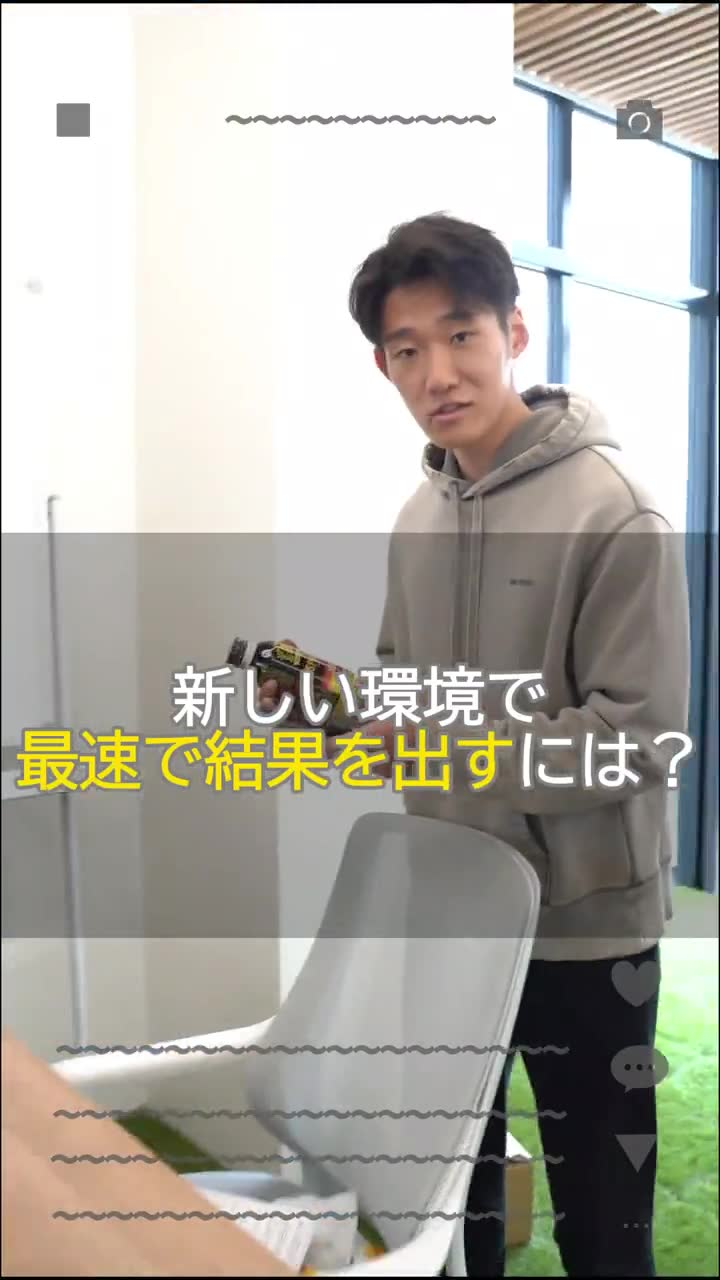
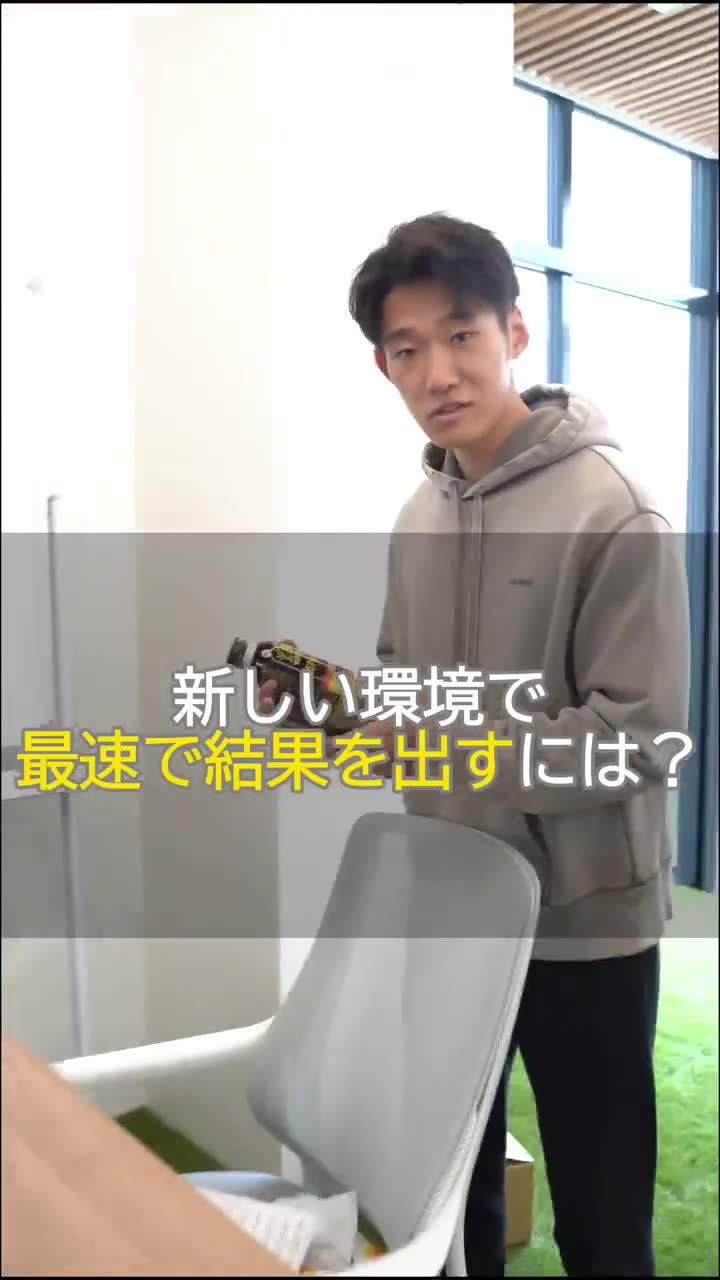
Add files via upload

diff --git a/index.html b/index.html
@@ -47,10 +47,18 @@ section:nth-of-type(even){background:var(--paper)}
 .hero-name .bar{width:44px;height:2px;background:var(--red)}
 .hero-name p{font-size:14px;letter-spacing:.1em}
 .hero-name p small{display:block;font-family:var(--num);font-size:10px;letter-spacing:.3em;color:rgba(255,255,255,.5);margin-top:2px}
-.hero-photo{position:relative}
-.hero-photo img{width:100%;aspect-ratio:1/1;object-fit:cover;filter:grayscale(12%)}
-.hero-photo::before{content:"";position:absolute;top:16px;left:16px;width:100%;height:100%;border:1px solid rgba(255,255,255,.25);pointer-events:none}
-.hero-photo .tag{position:absolute;left:-10px;bottom:26px;background:var(--red);color:var(--white);font-family:var(--num);font-size:12px;letter-spacing:.2em;padding:8px 16px;font-weight:500}
+.hero-board{position:relative;border:1px solid rgba(255,255,255,.28);padding:46px 38px 42px;overflow:hidden}
+.hero-board::before{content:"";position:absolute;top:16px;left:16px;width:100%;height:100%;border:1px solid rgba(255,255,255,.12);pointer-events:none}
+.hero-board::after{content:"";position:absolute;top:-30px;right:-70px;width:190px;height:34px;background:var(--red);transform:rotate(35deg);opacity:.9}
+.hb-eyebrow{font-family:var(--num);font-size:11px;letter-spacing:.3em;color:rgba(255,255,255,.55);font-weight:500;margin-bottom:10px}
+.hb-time{font-family:var(--num);font-size:clamp(56px,8vw,86px);font-weight:600;letter-spacing:.02em;line-height:1;color:var(--white)}
+.hb-div{width:100%;height:1px;background:rgba(255,255,255,.18);margin:30px 0 24px}
+.hb-prog{display:flex;align-items:center;gap:18px}
+.hb-prog .l{display:block;font-family:var(--num);font-size:9px;letter-spacing:.22em;color:rgba(255,255,255,.45)}
+.hb-prog .v{display:block;font-family:var(--num);font-size:22px;font-weight:500;color:var(--white);margin-top:2px}
+.hb-prog .arrow{font-family:var(--num);font-size:20px;color:var(--red);font-weight:600}
+.hb-note{margin-top:24px;font-size:12px;color:rgba(255,255,255,.55);letter-spacing:.06em}
+.hero-board .tag{position:absolute;left:0;bottom:0;background:var(--red);color:var(--white);font-family:var(--num);font-size:11px;letter-spacing:.2em;padding:7px 16px;font-weight:500}
 .hero-ticker{border-top:1px solid rgba(255,255,255,.15);padding:16px 0;overflow:hidden}
 .hero-ticker .inner{display:flex;gap:38px;flex-wrap:wrap;min-height:0;padding-top:0;padding-bottom:0}
 .hero-ticker span{font-family:var(--num);font-size:12px;letter-spacing:.22em;color:rgba(255,255,255,.55)}
@@ -88,7 +96,7 @@ section:nth-of-type(even){background:var(--paper)}
 /* Instagramカード */
 .ig-card{background:var(--white);border:1px solid var(--line);padding:26px 24px;box-shadow:0 2px 20px rgba(17,17,17,.05)}
 .ig-head{display:flex;align-items:center;gap:16px;margin-bottom:18px}
-.ig-head img{width:64px;height:64px;border-radius:50%;object-fit:cover;border:2px solid var(--red);padding:2px;background:var(--white)}
+.ig-head .avatar{width:64px;height:64px;border-radius:50%;border:2px solid var(--red);display:flex;align-items:center;justify-content:center;font-family:var(--num);font-size:20px;font-weight:600;color:var(--ink);letter-spacing:.02em}
 .ig-head .id{font-family:var(--num);font-size:17px;font-weight:600;letter-spacing:.04em}
 .ig-head .nm{font-size:12px;color:var(--gray)}
 .ig-stats{display:flex;gap:0;border-top:1px solid var(--line);border-bottom:1px solid var(--line);margin-bottom:16px}
@@ -149,7 +157,8 @@ footer{background:var(--ink);color:rgba(255,255,255,.4);text-align:center;font-f
 @media(max-width:820px){
   section{padding:64px 0}
   .hero .inner{grid-template-columns:1fr;min-height:auto;gap:36px}
-  .hero-photo{max-width:420px}
+  .hero-board{padding:36px 24px 46px}
+  .hb-prog{flex-wrap:wrap;gap:12px}
   .profile-grid,.run-grid{grid-template-columns:1fr;gap:34px}
   .profile-photo{max-width:380px}
   .works-grid{grid-template-columns:1fr;max-width:400px;margin:0 auto}
@@ -174,8 +183,18 @@ footer{background:var(--ink);color:rgba(255,255,255,.4);text-align:center;font-f
         <p>武富 智也<small>TOMOYA TAKETOMI</small></p>
       </div>
     </div>
-    <div class="hero-photo">
-      <img src="profile.jpg" alt="武富智也のプロフィール写真">
+    <div class="hero-board">
+      <p class="hb-eyebrow">PERSONAL BEST — FULL MARATHON</p>
+      <p class="hb-time num">2:49:33</p>
+      <div class="hb-div"></div>
+      <div class="hb-prog">
+        <div><span class="l">1ST MARATHON</span><span class="v">4:29:30</span></div>
+        <span class="arrow">→</span>
+        <div><span class="l">CURRENT PB</span><span class="v">2:49:33</span></div>
+        <span class="arrow">→</span>
+        <div><span class="l">NEXT GOAL</span><span class="v" style="color:var(--red)">2:39:59</span></div>
+      </div>
+      <p class="hb-note">目標から逆算し、継続する。この姿勢がすべての仕事の土台です。</p>
       <div class="tag">PORTFOLIO 2026</div>
     </div>
   </div>
@@ -254,7 +273,7 @@ footer{background:var(--ink);color:rgba(255,255,255,.4);text-align:center;font-f
       </div>
       <div class="ig-card">
         <div class="ig-head">
-          <img src="profile.jpg" alt="@tomorun37">
+          <div class="avatar">37</div>
           <div>
             <p class="id">tomorun37</p>
             <p class="nm">Tomoya Taketomi / Digital creator</p>
@@ -281,8 +300,8 @@ footer{background:var(--ink);color:rgba(255,255,255,.4);text-align:center;font-f
         <video src="work1.mp4" poster="poster1.jpg" controls playsinline preload="metadata"></video>
         <div class="work-cap">
           <p class="no">REEL 01</p>
-          <h4>新しい環境で成果を出す</h4>
-          <p>縦型リール（57秒）／企画・撮影・編集：CapCut</p>
+          <h4>新しい環境で成果を出すには</h4>
+          <p>縦型リール（56秒）／企画・撮影・編集：CapCut</p>
         </div>
       </div>
       <div class="work">
@@ -366,7 +385,7 @@ footer{background:var(--ink);color:rgba(255,255,255,.4);text-align:center;font-f
     <p>お仕事のご相談・ご依頼は、以下よりお気軽にご連絡ください。<br>まずは無料でヒアリングいたします。</p>
     <div class="links">
       <a href="https://www.instagram.com/tomorun37/reels/" target="_blank" rel="noopener">Instagram：@tomorun37</a>
-      <a href="#">Mail：[email redacted]</a>
+      <a href="mailto:[email redacted]">Mail：[email redacted]</a>
     </div>
   </div>
 </section>